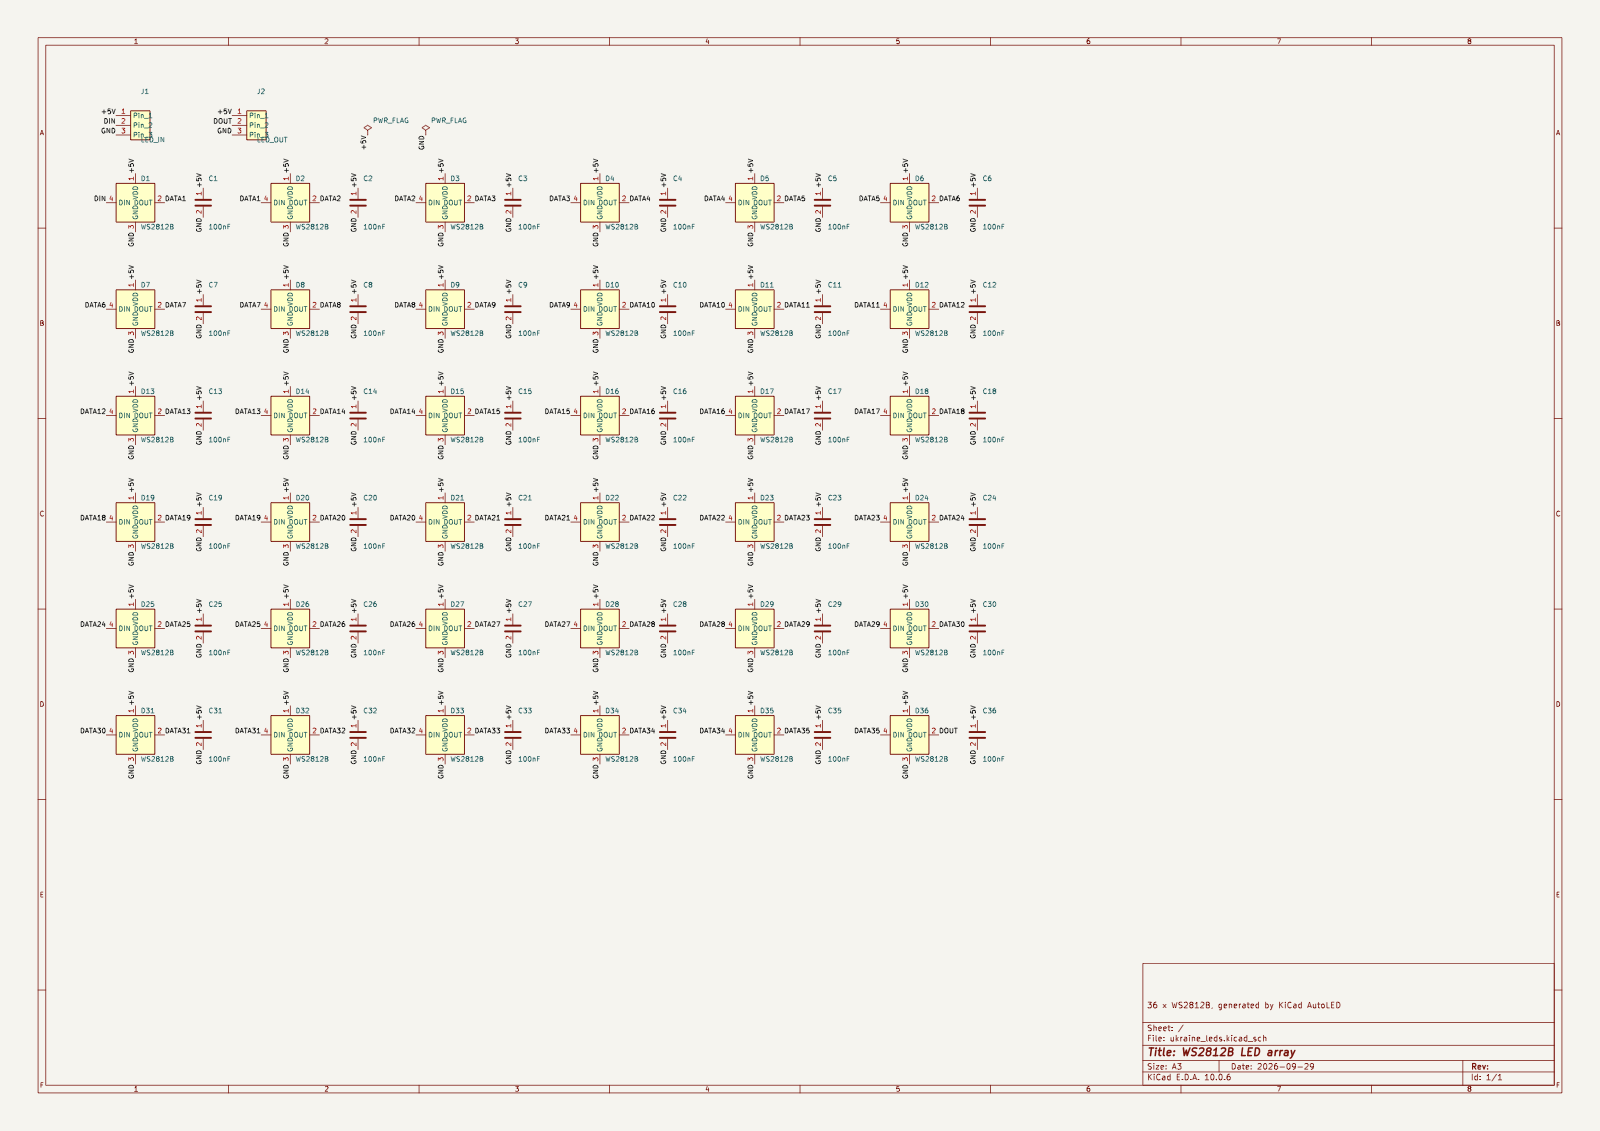
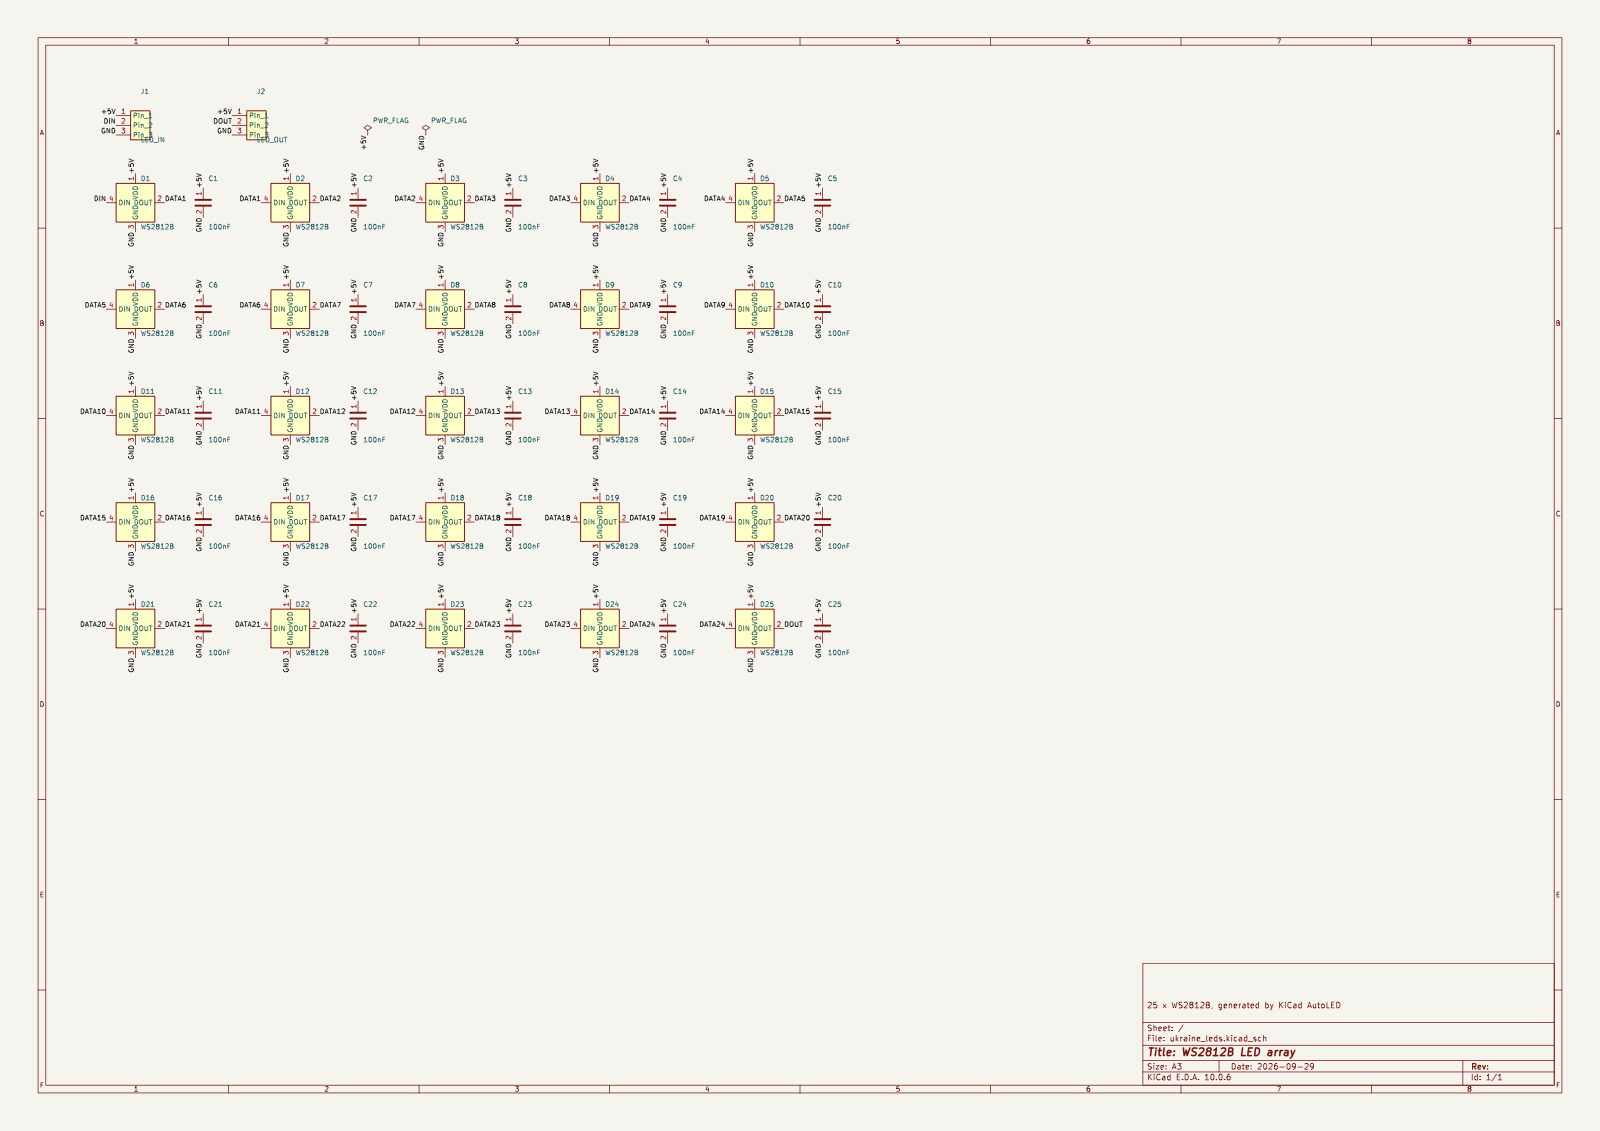
add image of ready board

diff --git a/README.md b/README.md
@@ -14,9 +14,9 @@ Tested with KiCad 10.0 (SWIG Python API). The generated schematic uses the KiCad
 
 All images are generated from [tests/ukraine.svg](tests/ukraine.svg).
 
-**Preview in the dialog.** WS2812B at 7 mm pitch, 150 mm wide, 1 mm border offset, zigzag with
-180° rotation on backward lines. Red = LED body, yellow dot = pin 1, blue = data chain,
-green circle = LED 1.
+**Preview in the dialog.** WS2812B at 7 mm pitch, 150 mm wide, 1 mm border offset, whole LED
+body kept inside the shape, zigzag with 180° rotation on backward lines (110 LEDs).
+Red = LED body, yellow dot = pin 1, blue = data chain, green circle = LED 1.
 
 ![Preview: WS2812B zigzag](docs/images/preview_zigzag.png)
 
@@ -24,14 +24,16 @@ green circle = LED 1.
 
 ![Preview: 0805 coverage mode](docs/images/preview_0805_coverage.png)
 
-**Generated PCB** (KiCad 3D render). 90 mm wide, 8 mm pitch, outline *Image shape + parts*,
-routed by Freerouting. Top: LEDs, caps and J1/J2. Bottom: GND plane.
+**Generated PCB** (KiCad 3D render). 90 mm wide, 8 mm pitch, 0.5 mm border, zigzag with 180°
+rotation, outline *Image shape + parts*, routed by Freerouting (0 unrouted). Top: 25 LEDs with
+caps, J1 (in) and J2 (out). Bottom: GND plane and tracks.
 
 | Top | Bottom |
 |---|---|
 | ![Board top](docs/images/board_top.png) | ![Board bottom](docs/images/board_bottom.png) |
 
-**Generated schematic.** J1 → D1 → … → D36 → J2 daisy chain with a 100 nF cap per LED; ERC passes with 0 violations:
+**Generated schematic** for the same board: a J1 → D1 → … → D25 → J2 daisy chain with a
+100 nF cap per LED. ERC reports 0 violations.
 
 ![Schematic](docs/images/schematic.png)
 
@@ -39,35 +41,35 @@ routed by Freerouting. Top: LEDs, caps and J1/J2. Bottom: GND plane.
 
 ![Cut line](docs/images/cut_line.png)
 
-**Exported map** (`leds.txt`, excerpt):
+**Exported map** for the same board (`leds.txt`, excerpt):
 
 ```text
-# grid: 6 rows x 10 cols, 36 LEDs, pitch 8.000 x 8.000 mm
+# grid: 5 rows x 10 cols, 25 LEDs, pitch 8.000 x 8.000 mm
 # order: rows, zigzag from top-left
 
 [mask]  # = LED, . = empty
-......#...
+.#...##...
 .######...
-#########.
 ##########
-....######
-....####..
+....#####.
+......#...
 ```
 
 **C header** (`leds.h`, excerpt):
 
 ```c
-#define LED_ROWS  6
+#define LED_ROWS  5
 #define LED_COLS  10
-#define LED_COUNT 36
+#define LED_COUNT 25
 #define LED_ZIGZAG 1
 
 static const int8_t led_index[LED_ROWS][LED_COLS] = {
-    { -1,  -1,  -1,  -1,  -1,  -1,   0,  -1,  -1,  -1},
-    { -1,   6,   5,   4,   3,   2,   1,  -1,  -1,  -1},
-    {  7,   8,   9,  10,  11,  12,  13,  14,  15,  -1},
-    { 25,  24,  23,  22,  21,  20,  19,  18,  17,  16},
-    ...
+    { -1,   0,  -1,  -1,  -1,   1,   2,  -1,  -1,  -1},
+    { -1,   8,   7,   6,   5,   4,   3,  -1,  -1,  -1},
+    {  9,  10,  11,  12,  13,  14,  15,  16,  17,  18},
+    { -1,  -1,  -1,  -1,  23,  22,  21,  20,  19,  -1},
+    { -1,  -1,  -1,  -1,  -1,  -1,  24,  -1,  -1,  -1},
+};
 ```
 
 ## Install
